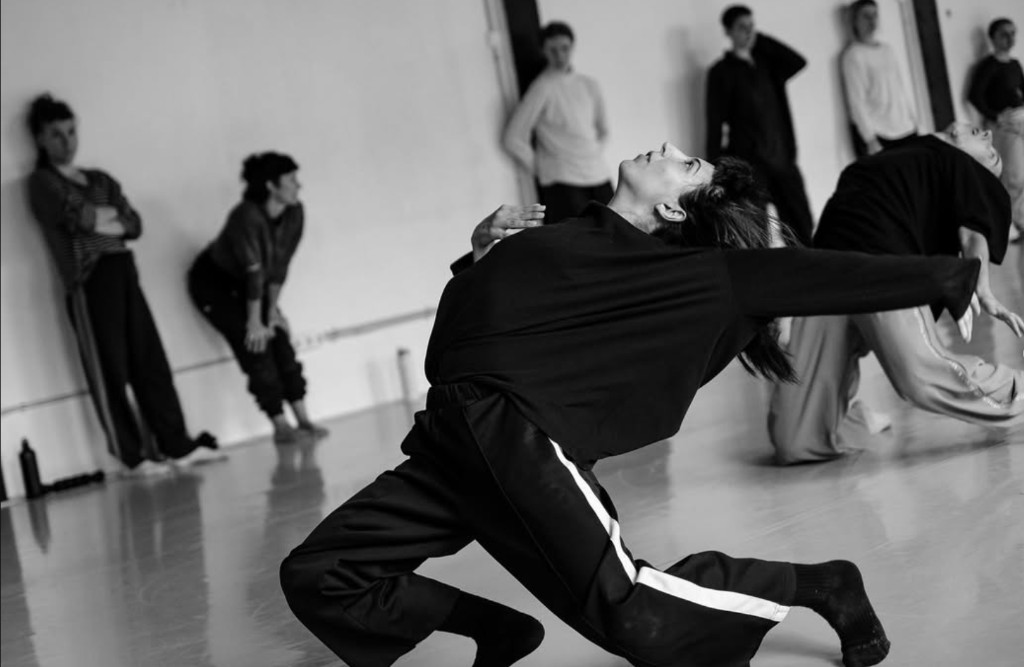
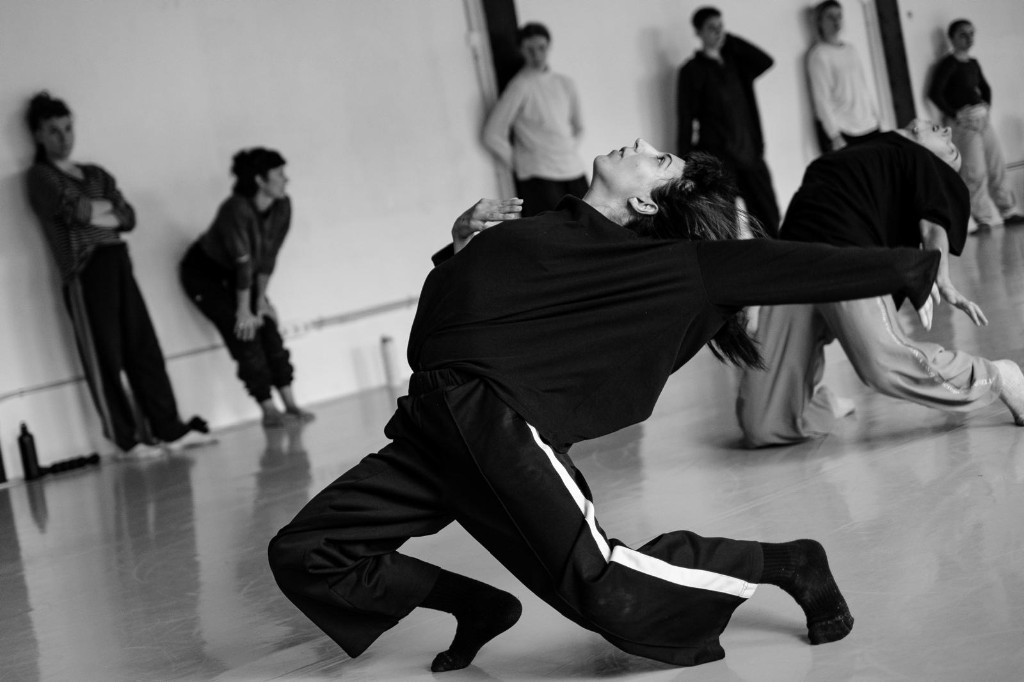
Update About hero background image and bust cache for new photo

diff --git a/css/styles.css b/css/styles.css
@@ -226,35 +226,24 @@ main {
   margin: 0 auto;
 }
 
-/* About: ¼ + ¾ split with two background images (paths set on section via --about-bg-*) */
+/* About: full-width hero with background image */
 .hero--split {
-  /* Paths relative to this file (css/styles.css), not index.html */
-  --about-bg-quarter: url("../images/about-quarter.png");
-  --about-bg-main: url("../images/about-main.png");
+  --about-bg-main: url("../images/about-main.png?v=20260503");
   max-width: none;
   margin: 0;
   padding: 0;
   min-height: 88vh;
-  display: grid;
-  grid-template-columns: minmax(0, 1fr) minmax(0, 3fr);
-  align-items: stretch;
-}
-
-.hero__pane--quarter {
-  min-height: 12rem;
-  background-color: var(--bg-alt);
-  background-image: var(--about-bg-quarter);
-  background-size: cover;
-  background-position: center;
-  background-repeat: no-repeat;
+  display: block;
 }
 
 .hero__pane--main {
   position: relative;
-  min-height: 12rem;
+  min-height: 88vh;
+  width: 100%;
   display: flex;
   flex-direction: column;
   justify-content: center;
+  align-items: center;
   background-color: var(--bg-alt);
   background-image: var(--about-bg-main);
   background-size: cover;
@@ -268,9 +257,9 @@ main {
   inset: 0;
   background: linear-gradient(
     105deg,
-    rgba(250, 248, 245, 0.92) 0%,
-    rgba(250, 248, 245, 0.78) 45%,
-    rgba(250, 248, 245, 0.55) 100%
+    rgba(250, 248, 245, 0.88) 0%,
+    rgba(250, 248, 245, 0.72) 45%,
+    rgba(250, 248, 245, 0.5) 100%
   );
   pointer-events: none;
 }
@@ -279,27 +268,26 @@ main {
   position: relative;
   z-index: 1;
   padding: var(--space);
-  padding-left: clamp(1.25rem, 4vw, 3rem);
-  padding-right: var(--space);
   max-width: 40rem;
 }
 
-.hero--split .scroll-hint {
-  color: var(--accent);
+.hero__inner--solo {
+  width: 75%;
+  max-width: 75vw;
+  margin-left: auto;
+  margin-right: auto;
+  text-align: center;
+  padding: var(--space) 0;
+  box-sizing: border-box;
 }
 
 @media (max-width: 768px) {
   .hero--split {
-    grid-template-columns: 1fr;
-    grid-template-rows: minmax(22vh, 200px) minmax(60vh, auto);
     min-height: auto;
   }
 
-  .hero__pane--quarter {
-    min-height: 25vh;
-    /* Show the top half of the portrait in the mobile strip (wide, short area) */
-    background-size: auto 200%;
-    background-position: center top;
+  .hero__pane--main {
+    min-height: min(88vh, 42rem);
   }
 
   .hero__inner {
@@ -319,6 +307,14 @@ main {
   line-height: 1.1;
   margin: 0 0 1rem;
   letter-spacing: -0.02em;
+}
+
+.hero .hero__inner--solo h1 {
+  margin: 0;
+  width: 100%;
+  font-size: clamp(3.5rem, min(18vw, 22vh), 14rem);
+  line-height: 1.05;
+  letter-spacing: -0.03em;
 }
 
 .hero .tagline {
